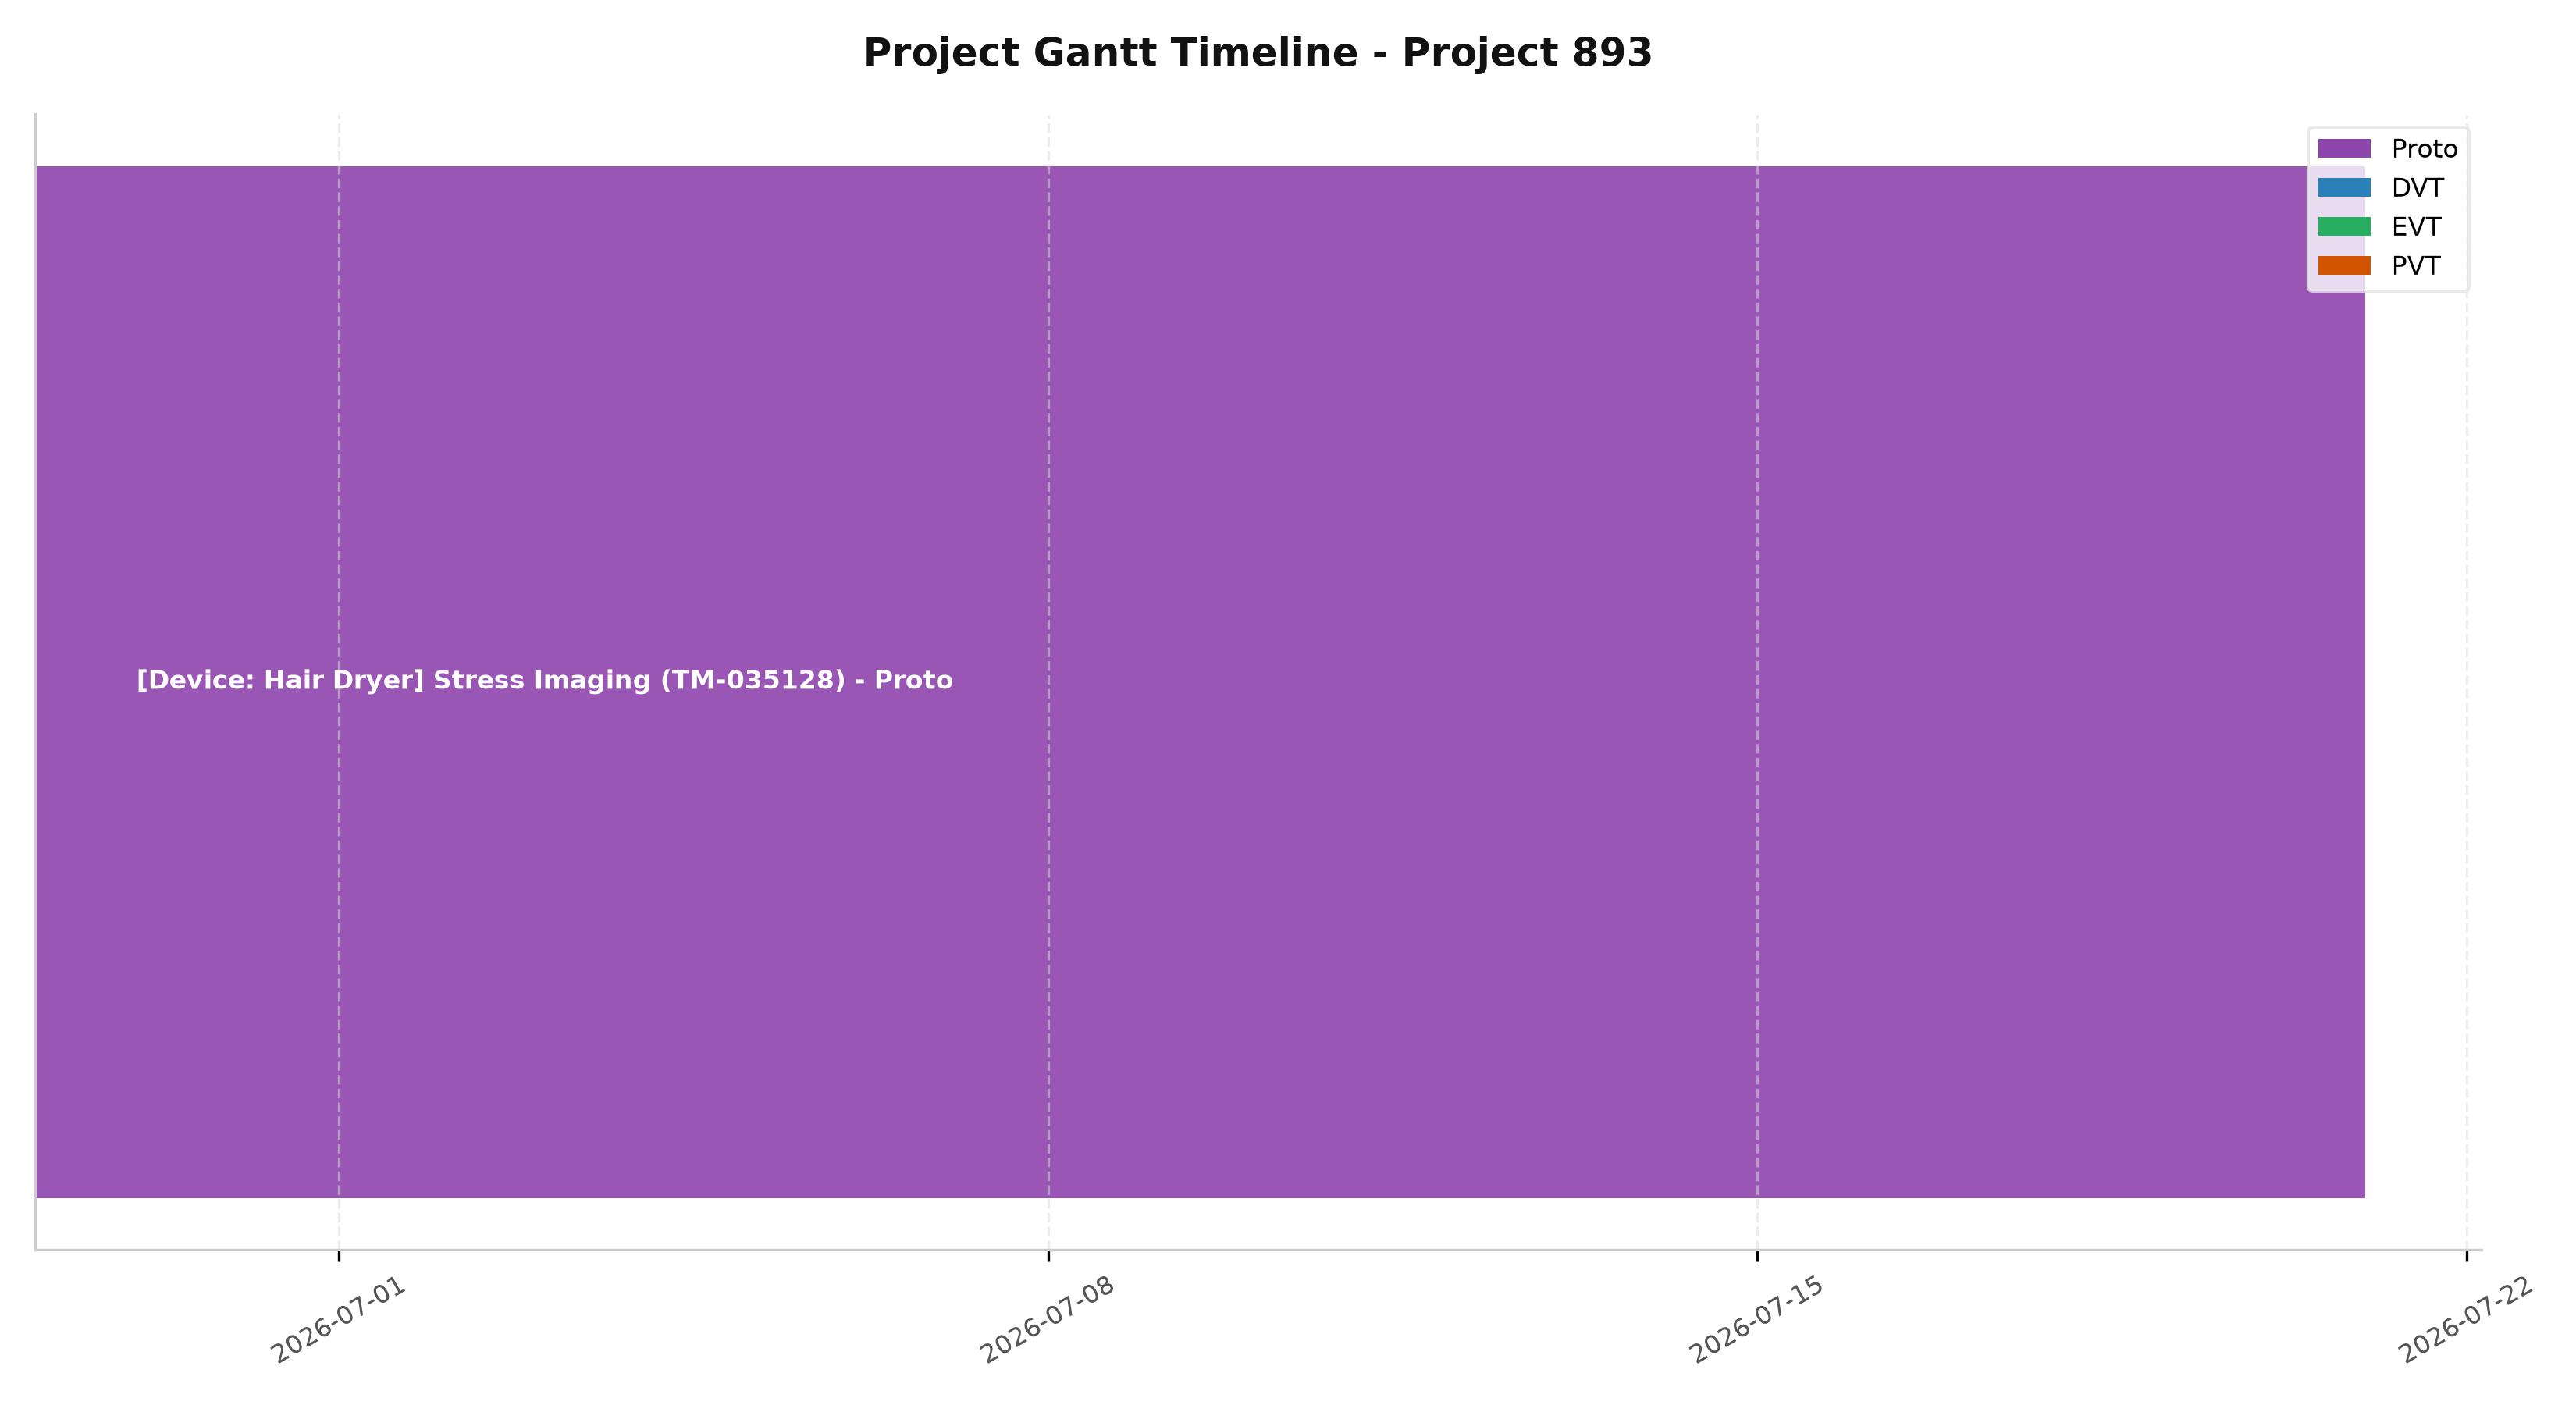
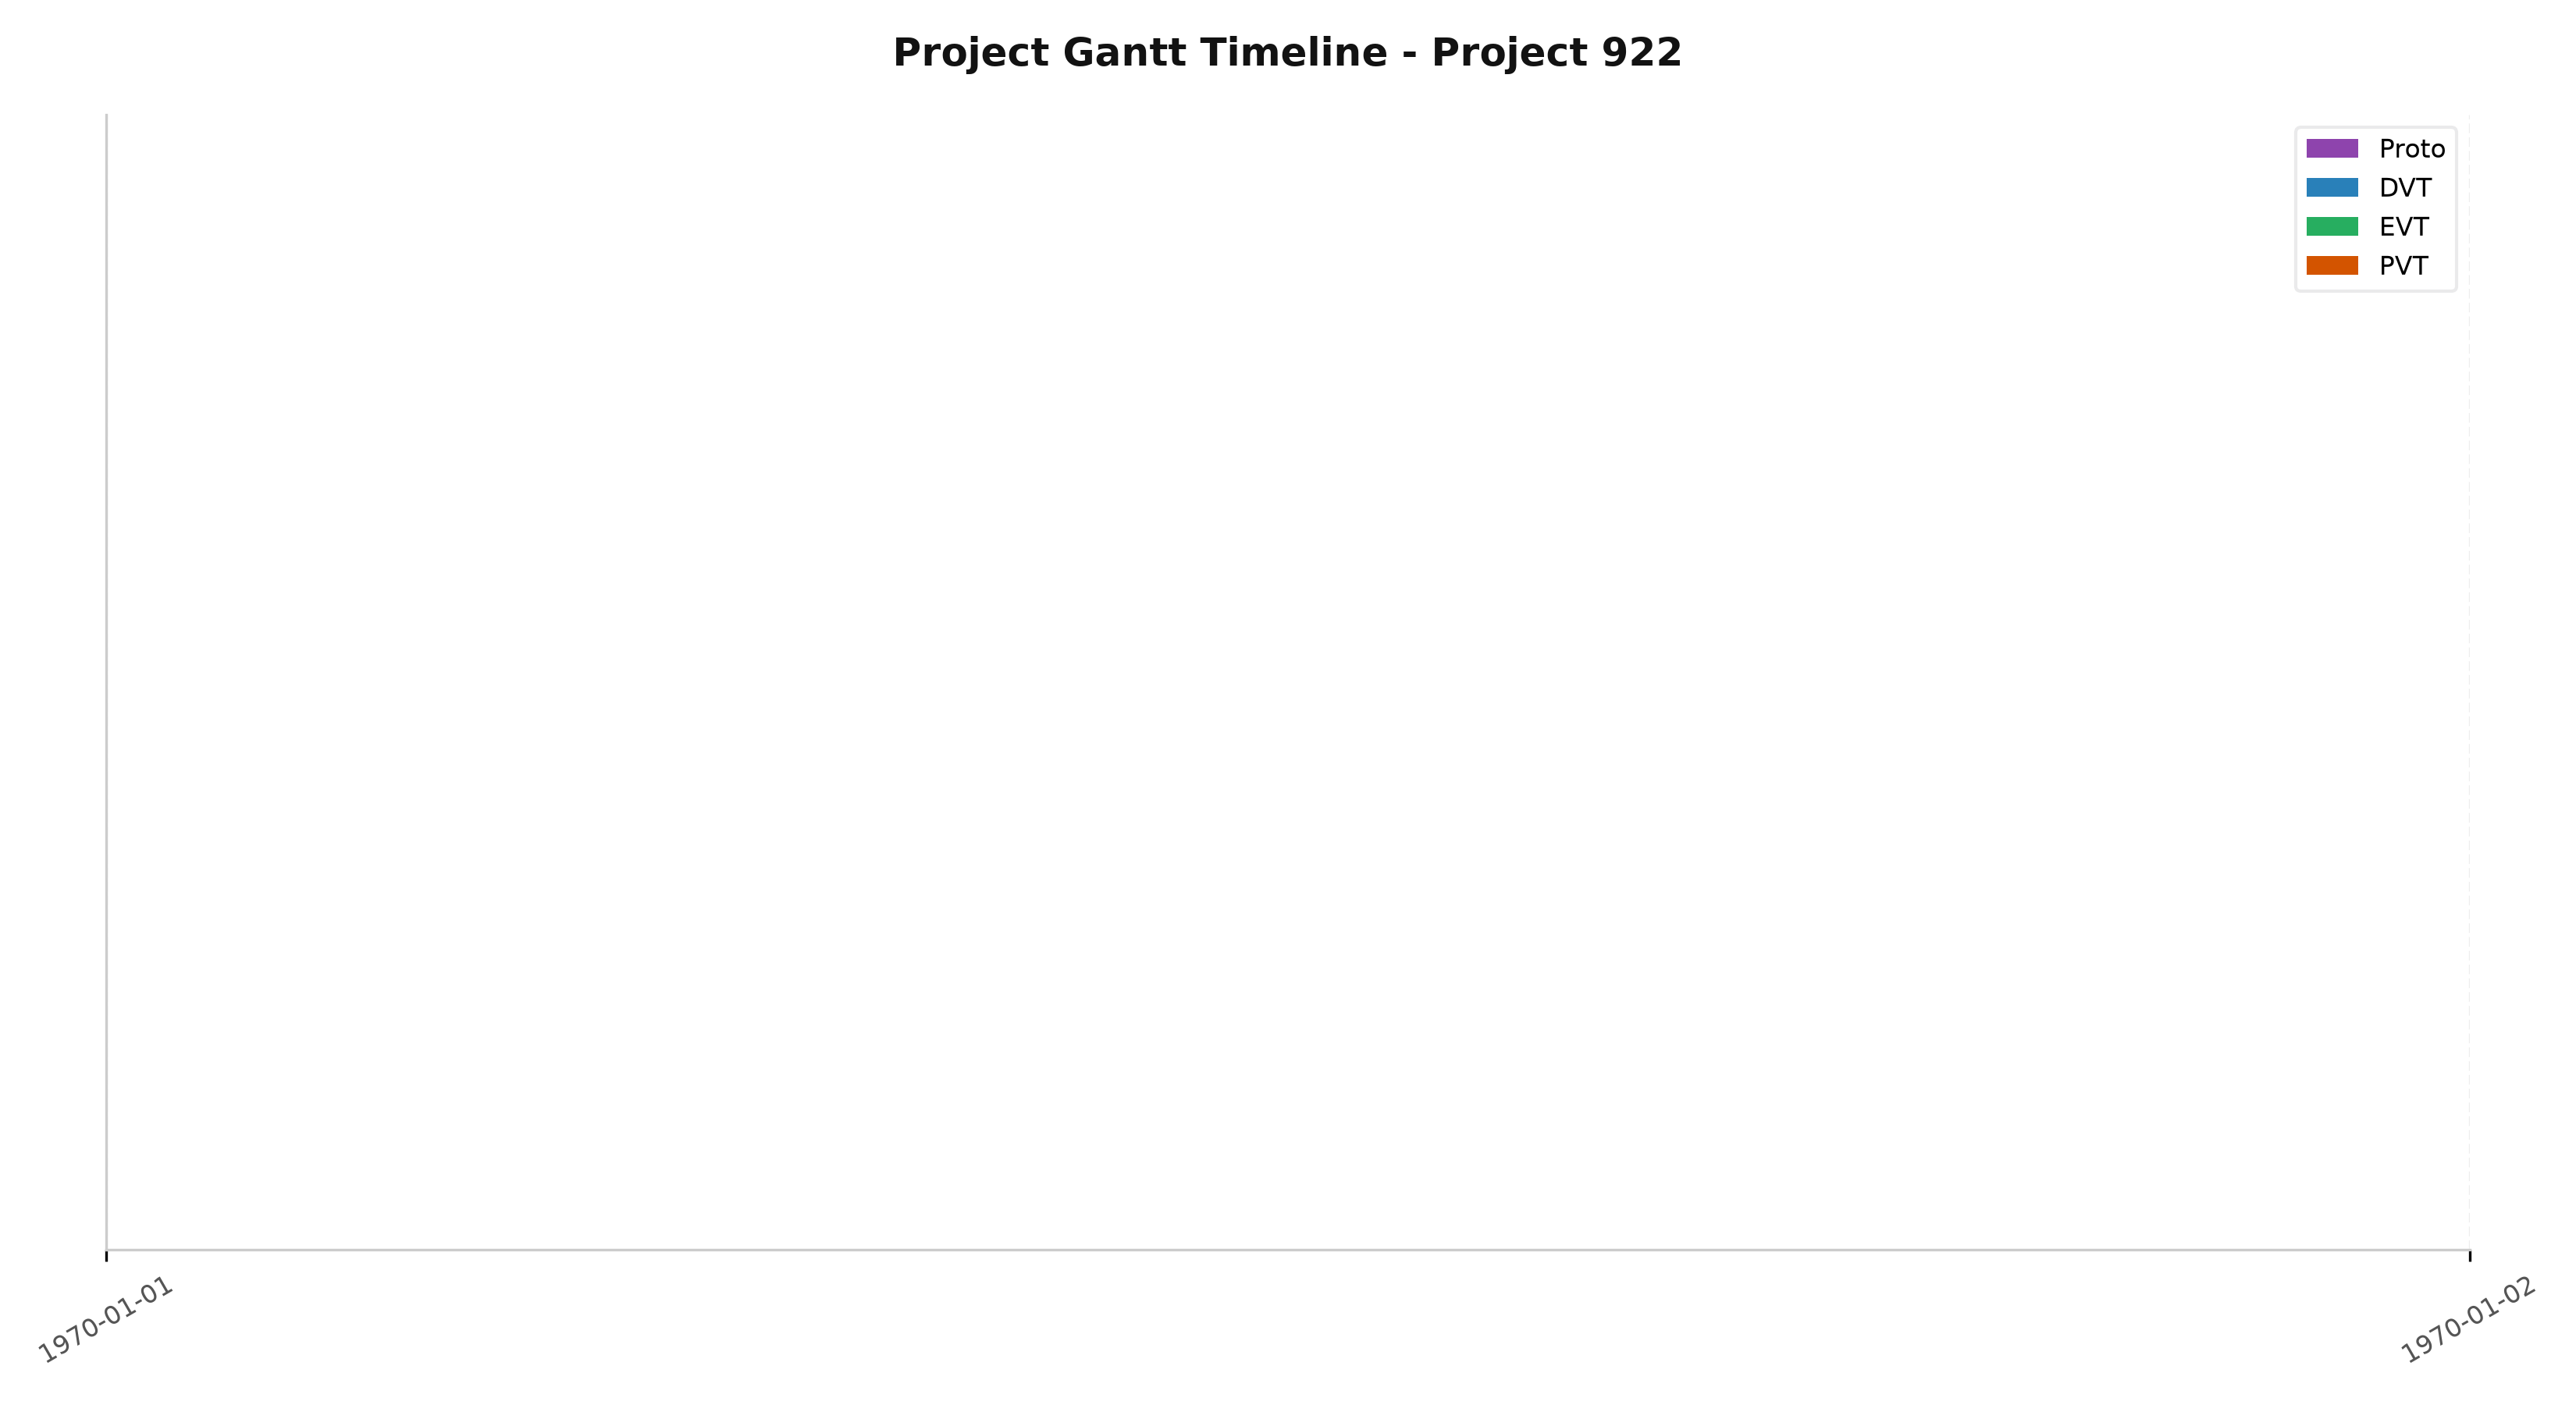
Save local changes before pull

diff --git a/service/LdapAuthenticate.py b/service/LdapAuthenticate.py
@@ -1,0 +1,54 @@
+from flask import Flask, request, jsonify
+from ldap3 import Server, Connection, ALL, ALL_ATTRIBUTES, NTLM, core
+import os
+
+app = Flask(__name__)
+
+# LDAP configuration (replace with your actual LDAP server details)
+LDAP_SERVER = os.getenv("LDAP_SERVER", "ldap://localhost:389")
+LDAP_USER_DN = os.getenv("LDAP_USER_DN", "cn=admin,dc=example,dc=com")
+LDAP_PASSWORD = os.getenv("LDAP_PASSWORD", "adminpassword")
+LDAP_SEARCH_BASE = os.getenv("LDAP_SEARCH_BASE", "dc=example,dc=com")
+
+# Optional: Use SSL/TLS if your LDAP server supports it
+USE_SSL = os.getenv("LDAP_USE_SSL", "false").lower() == "true"
+
+
+def ldap_authenticate(username: str, password: str):
+    """
+    Authenticate a user against the LDAP server.
+    Returns user attributes if successful, None otherwise.
+    """
+    if not username or not password:
+        return None
+
+    try:
+        # Connect to LDAP server
+        server = Server(LDAP_SERVER, get_info=ALL, use_ssl=USE_SSL)
+        
+        # First bind with admin account to search for the user DN
+        with Connection(server, LDAP_USER_DN, LDAP_PASSWORD, auto_bind=True) as admin_conn:
+            search_filter = f"(uid={username})"
+            admin_conn.search(
+                search_base=LDAP_SEARCH_BASE,
+                search_filter=search_filter,
+                attributes=ALL_ATTRIBUTES
+            )
+
+            if not admin_conn.entries:
+                return None  # User not found
+
+            user_dn = admin_conn.entries[0].entry_dn
+
+        # Now try binding with the found user DN and provided password
+        with Connection(server, user_dn, password, auto_bind=True) as user_conn:
+            return {
+                "dn": user_dn,
+                "attributes": user_conn.extend.standard.who_am_i()
+            }
+
+    except core.exceptions.LDAPBindError:
+        return None  # Invalid credentials
+    except Exception as e:
+        app.logger.error(f"LDAP error: {e}")
+        return None